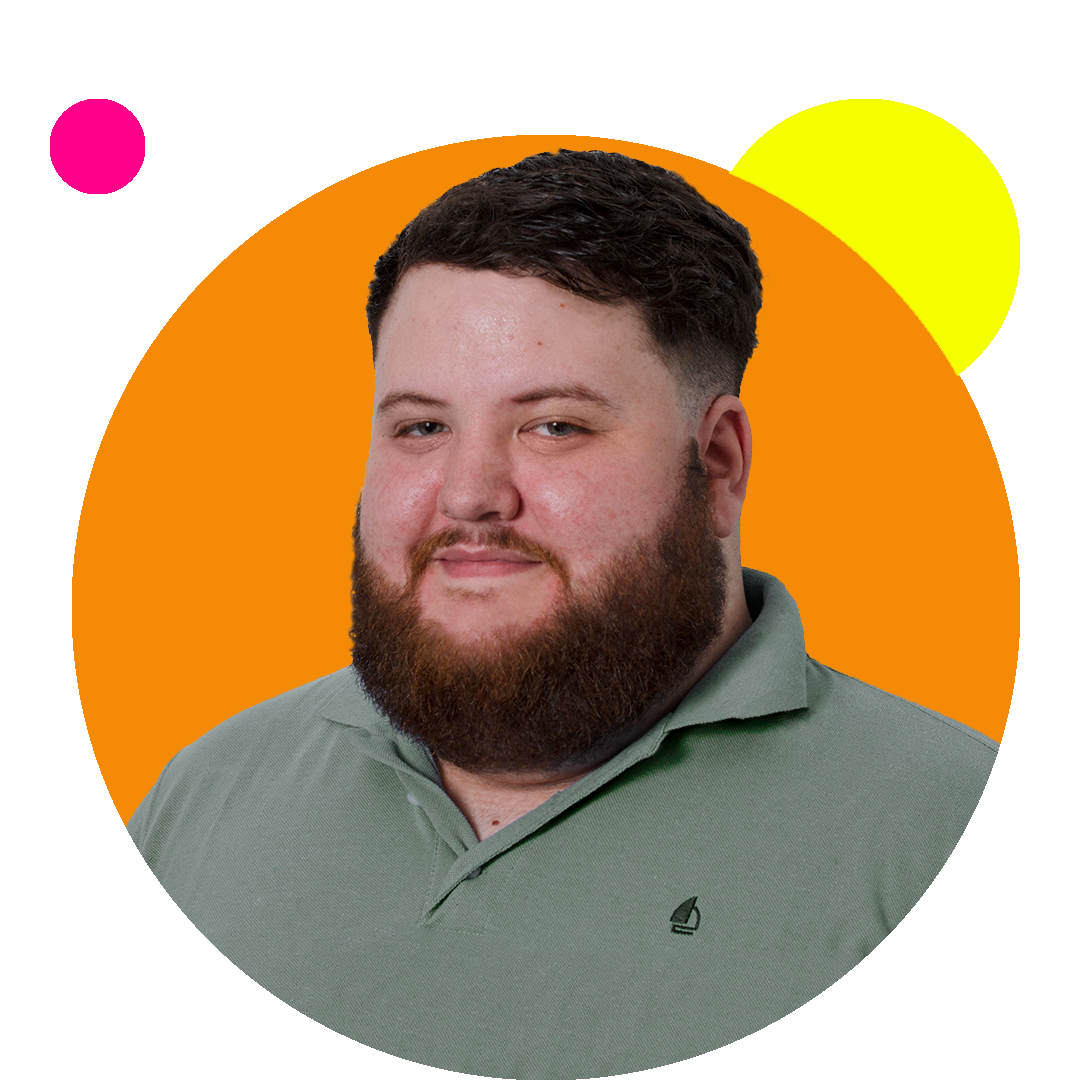
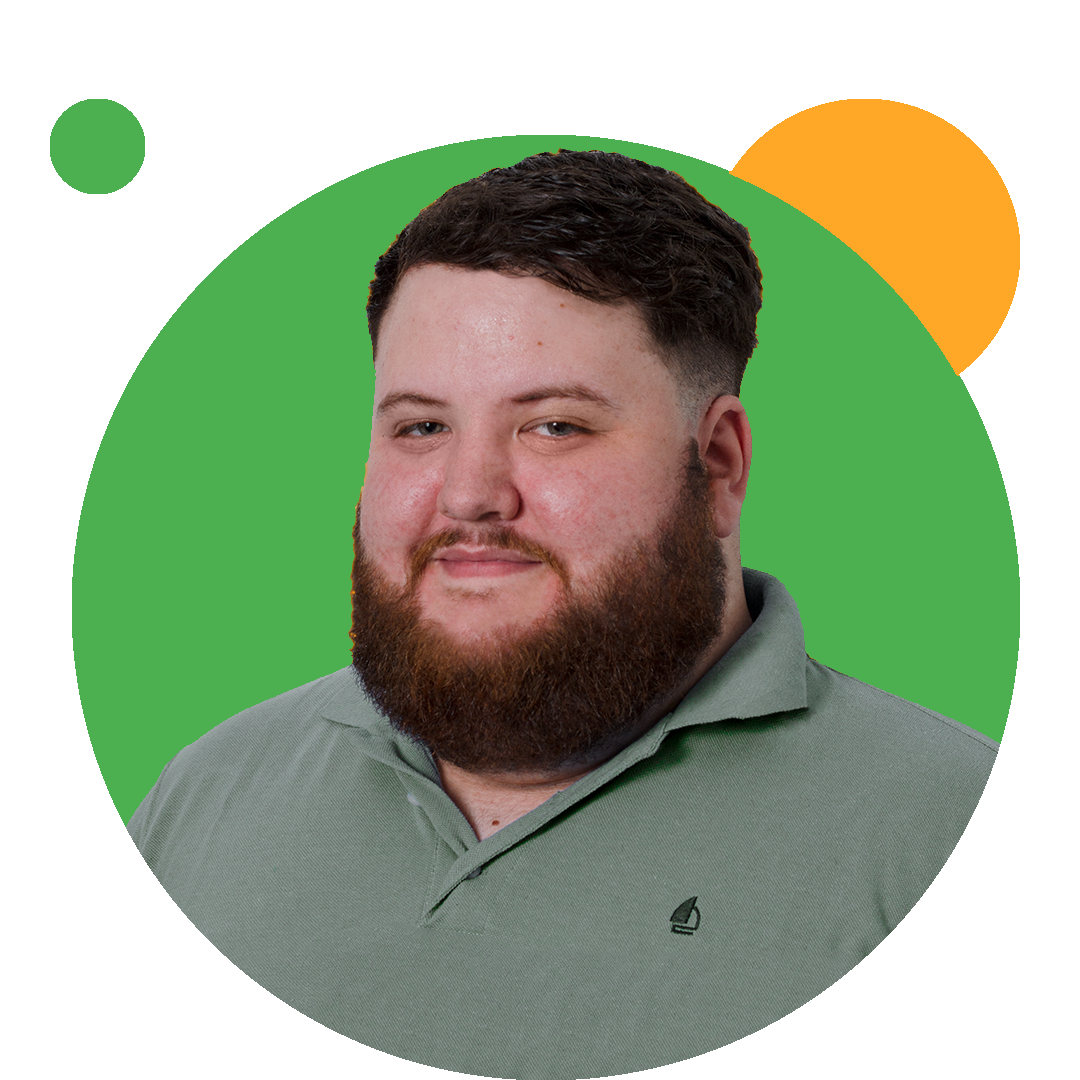
componente skills modificado + img profile update

Changed region(s): [[0.0611, 0.0917, 0.9472, 0.7639], [0.0306, 0.0917, 0.1528, 0.1833]]

diff --git a/src/components/Skills/Skills.jsx b/src/components/Skills/Skills.jsx
@@ -51,7 +51,7 @@ const Skills = ({ fondo, titular }) => {
     {
       nombre: ".NET",
       img: DotNetImg,
-      sombra: "shadow-purple-500",
+      sombra: "shadow-purple-700",
       link: "https://dotnet.microsoft.com/en-us/",
     },
     {
@@ -101,62 +101,41 @@ const Skills = ({ fondo, titular }) => {
           SKILLS
         </h1>
       </div>
-      <div className='grid lg:grid-cols-2 sm:grid-cols-1 gap-3 mx-auto gap-y-20 w-[80%] md:w-[90%]'>
-        <div className='mx-auto'>
-          <h1 className='text-2xl font-bold text-center text-green-500 mb-3'>
-            Front-End
-          </h1>
-          <div className='grid grid-cols-2 lg:grid-cols-3 gap-9 mx-auto border-green-500 border-dashed border-2 rounded-xl py-7 px-4'
-          >
-            {front.map((item, idx) => (
-              <SkillsModelo key={idx}
-                nombre={item.nombre}
-                img={item.img}
-                sombra={item.sombra}
-                link={item.link}
-              />
-            )
-            )}
-          </div>
-        </div>
-        <div className='mx-auto'>
-          <h1 className='text-2xl font-bold text-center text-green-500 mb-3'>
-            Back-End
-          </h1>
-          <div className='grid grid-cols-2 lg:grid-cols-3 gap-9 mx-auto border-green-500 border-dashed border-2 rounded-xl py-7 px-4'
-            data-aos="flip-up"
-            data-aos-duration="6000">
-            {back.map((item, idx) => (
-              <SkillsModelo key={idx}
-                nombre={item.nombre}
-                img={item.img}
-                sombra={item.sombra}
-                link={item.link}
-              />
-            )
-            )}
-          </div>
-        </div>
-        <div className='mx-auto'>
-          <h1 className='text-2xl font-bold text-center text-green-500 mb-3'>
-            Herramientas
-          </h1>
-          <div className='grid grid-cols-2 lg:grid-cols-3 gap-9 mx-auto border-green-500 border-dashed border-2 rounded-xl py-7 px-4'
-            data-aos="flip-up"
-            data-aos-duration="6000">
-            {herramientas.map((item, idx) => (
-              <SkillsModelo key={idx}
-                nombre={item.nombre}
-                img={item.img}
-                sombra={item.sombra}
-                link={item.link}
-              />
-            )
-            )}
-          </div>
-        </div>
+      <div className='lg:mx-[150px] ml-[15%] grid grid-rows-1 gap-8 lg:flex' data-aos="flip-up" data-aos-duration="6000">
+        {front.map((item, idx) => (
+          <SkillsModelo key={idx}
+            nombre={item.nombre}
+            img={item.img}
+            sombra={item.sombra}
+            link={item.link}
+          />
+        )
+        )}
       </div>
-
+      <div className='lg:mx-[150px] ml-[15%] grid grid-rows-1 gap-8 lg:flex mt-8'
+        data-aos="flip-up"
+        data-aos-duration="6000">
+        {back.map((item, idx) => (
+          <SkillsModelo key={idx}
+            nombre={item.nombre}
+            img={item.img}
+            sombra={item.sombra}
+            link={item.link}
+          />
+        )
+        )}
+      </div>
+      <div className='lg:mx-[150px] ml-[15%] grid grid-rows-1 gap-8 lg:flex mt-8' data-aos="flip-up" data-aos-duration="6000">
+        {herramientas.map((item, idx) => (
+          <SkillsModelo key={idx}
+            nombre={item.nombre}
+            img={item.img}
+            sombra={item.sombra}
+            link={item.link}
+          />
+        )
+        )}
+      </div>
     </div>
   )
 }

diff --git a/src/components/Skills/SkillsModelo.jsx b/src/components/Skills/SkillsModelo.jsx
@@ -1,14 +1,14 @@
 import React from 'react'
 
-const SkillsModelo = ({nombre, img, sombra, link}) => {
-  return (
-     <a className={`${sombra} shadow-lg bg-white rounded-lg flex flex-col items-center justify-center gap-2 w-[100px] p-1 border-black border-solid border-2 hover:scale-110  transition ease-in duration-200 hover:cursor-pointer`}
-     href={link}
-     target='_blank'>
-        <img src={img} alt="skill" className='h-[50px] m-1'/>
-        <span className='font-roboto font-bold'>{nombre}</span>
-     </a>
-  )
+const SkillsModelo = ({ nombre, img, sombra, link }) => {
+   return (
+      <a className={`${sombra} shadow-lg bg-white rounded-lg flex flex-col items-center justify-center gap-2 w-[80%] p-1 border-black border-solid border-2 hover:scale-110  transition ease-in duration-200 hover:cursor-pointer`}
+         href={link}
+         target='_blank'>
+         <img src={img} alt="skill" className='h-[50px] m-1' />
+         <span className='font-roboto font-bold'>{nombre}</span>
+      </a>
+   )
 }
 
 export default SkillsModelo

diff --git a/src/components/Experiencia/ExperienciaModelo.jsx b/src/components/Experiencia/ExperienciaModelo.jsx
@@ -11,9 +11,9 @@ const ExperienciaModelo = ({ anios, titulo, lugar, duracion, detalles, aptitudes
           <span className='inline-block px-2 py-1 font-semibold text-white bg-green-700 rounded-full'>{anios}</span>
           <span className='text-lg font-semibold text-green-500 '>{titulo}</span>
           <b className={`${texto} sm:hidden`}>|</b>
-          <span className={`${info} my-1 text-sm font-semibold leading-none pt-0.5`}>{lugar}</span>
+          <span className={`${info} my-1 text-sm font-semibold leading-none pt-0.5 text-orange-400`}>{lugar}</span>
           <b className={`${texto}`}>|</b>
-          <span className={`${info} my-1 text-sm font-semibold leading-none pt-0.5 `}>{duracion}</span>
+          <span className={`${info} my-1 text-sm font-semibold leading-none pt-0.5 text-orange-400`}>{duracion}</span>
         </p>
         <p className={`${texto} my-2 text-base font-semibold`}>{detalles}</p>
         <p className={`${texto} my-2 text-base font-normal`}>{aptitudes}</p>

diff --git a/src/components/Educacion/EducacionModelo.jsx b/src/components/Educacion/EducacionModelo.jsx
@@ -11,7 +11,7 @@ const ExperienciaModelo = ({ anios, titulo, lugar, detalles, texto, certificados
           <span className='inline-block px-2 py-1 font-semibold bg-green-700 rounded-full text-white'>{anios}</span>
           <span className='text-lg font-semibold text-green-500 '>{titulo}</span>
           <b>|</b>
-          <span className={`${info} my-1 text-sm font-semibold leading-none pt-0.5`}>{lugar}</span>
+          <span className={`${info} my-1 text-sm font-semibold leading-none pt-0.5 text-orange-400`}>{lugar}</span>
           <b>|</b>
           <a target='_blank' href={linkCertificado} className={`${certificados} my-1 text-sm font-semibold leading-none pt-0.5 cursor-pointer hover:scale-110 ease-in duration-200`}> Ver Certificado</a>
         </p>
